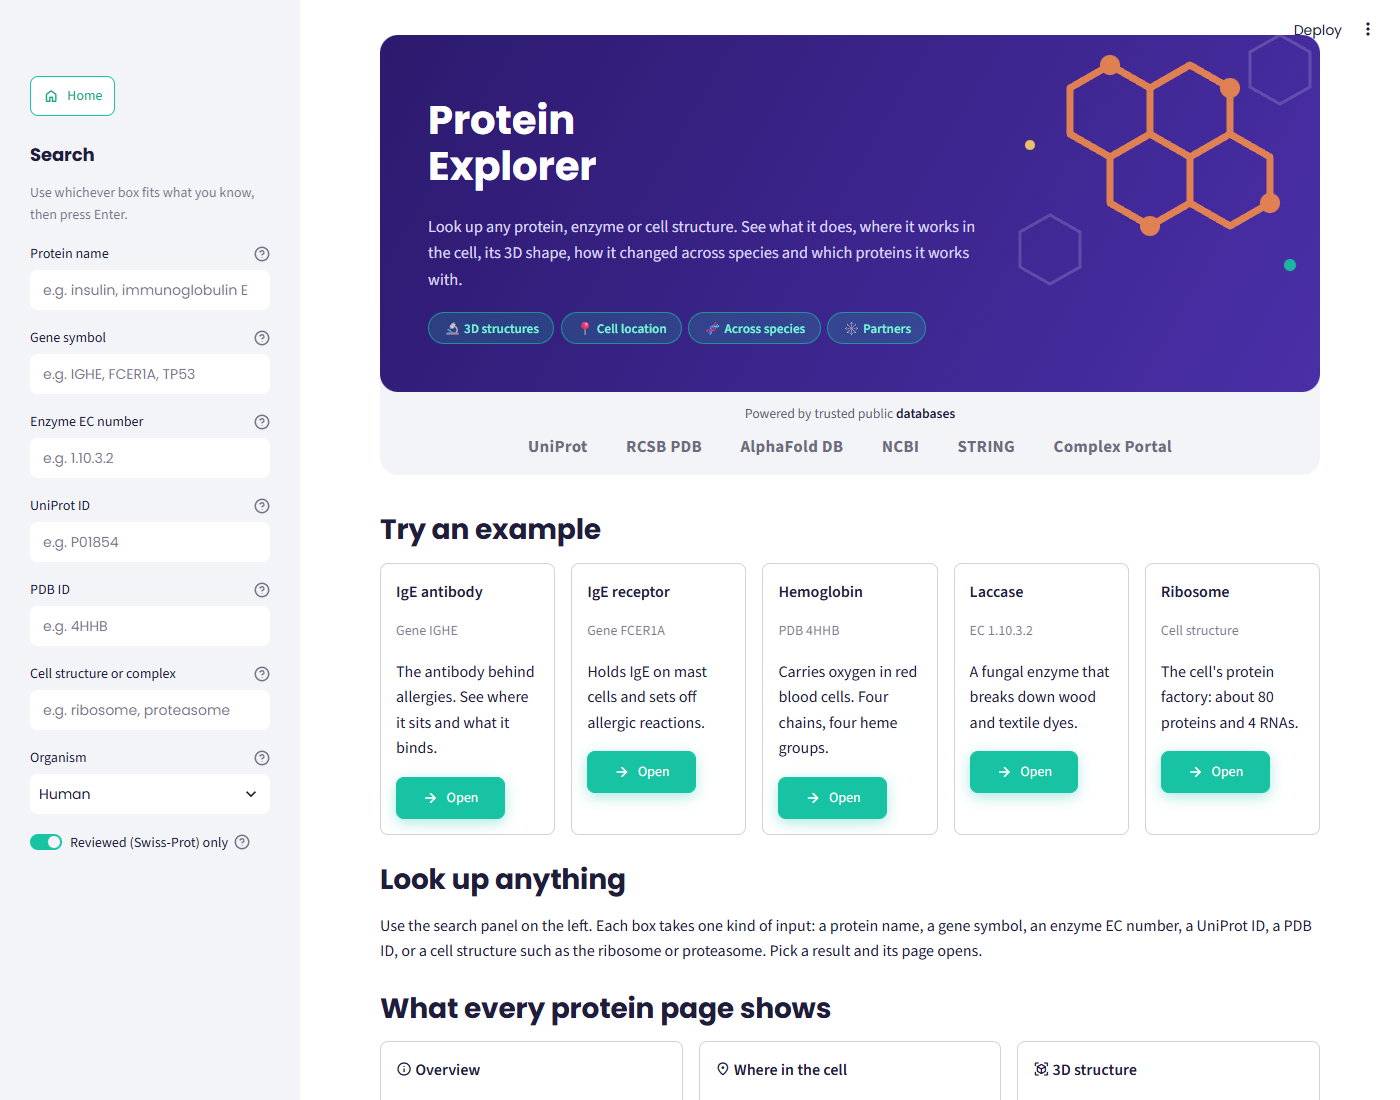
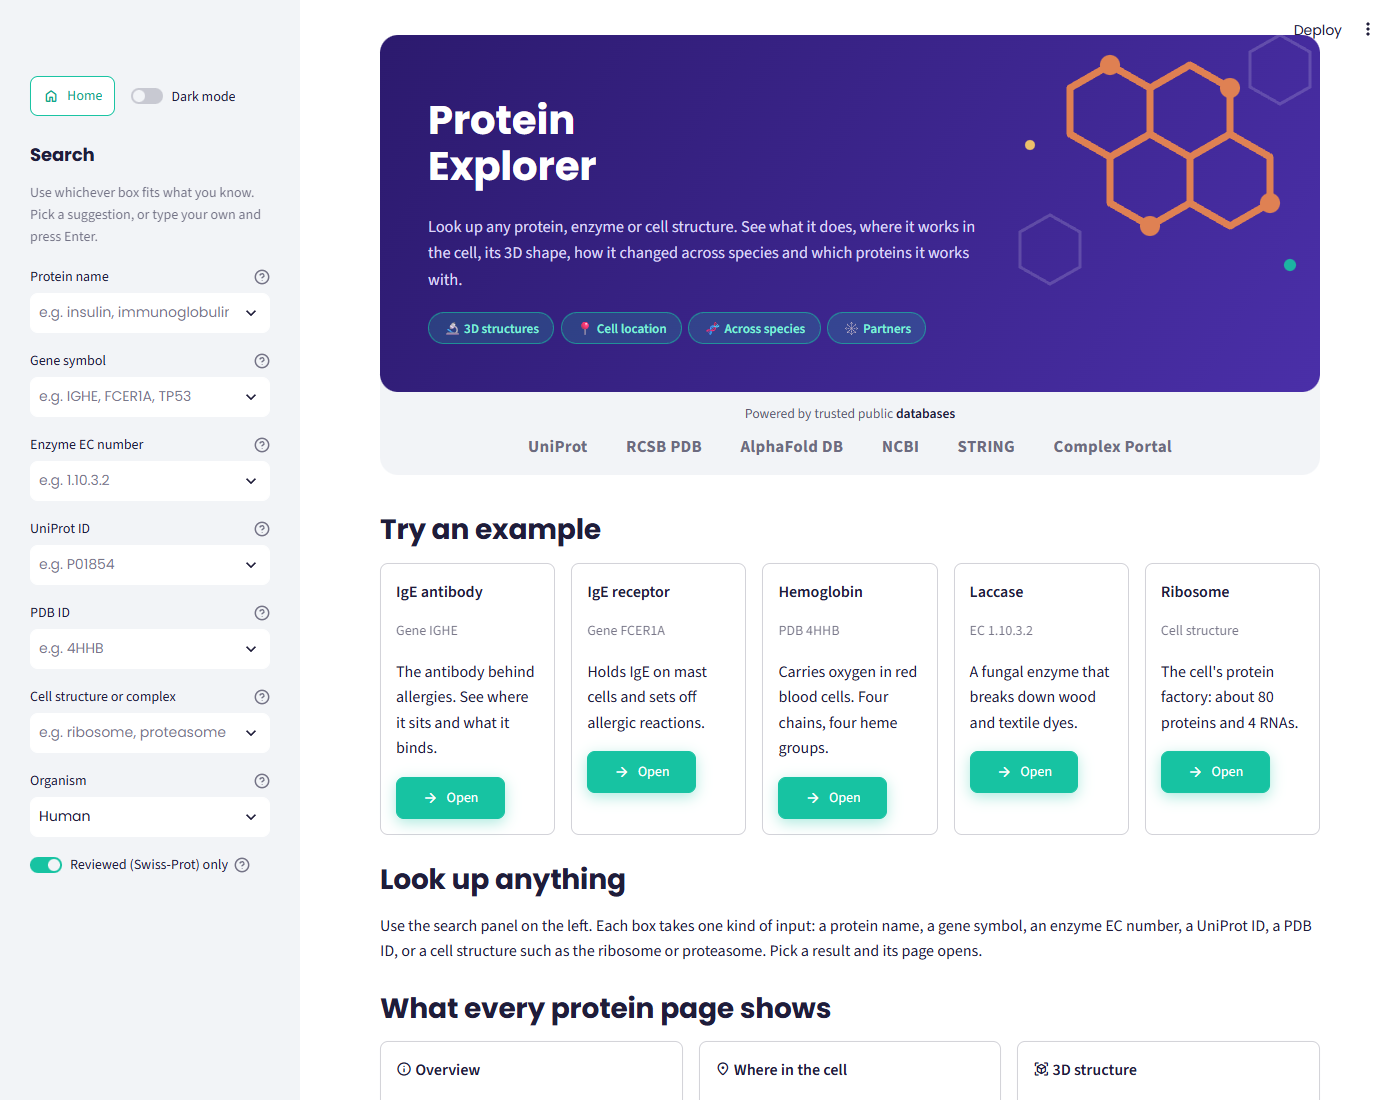
Show the search dropdowns and dark mode in the README

Changed region(s): [[0.0, 0.1855, 0.1843, 0.8036], [0.0921, 0.0618, 0.1536, 0.0927], [0.1843, 0.68, 0.215, 0.7109]]

diff --git a/README.md b/README.md
@@ -38,6 +38,10 @@ Each box is a dropdown with suggestions (about 140 common genes, everyday protei
 
 A **Dark mode** switch at the top of the sidebar repaints the whole app, including the charts and the 3D viewer.
 
+| Typing "insul" into the gene box | Dark mode |
+|---|---|
+| ![Search dropdown filtering to INS and IGF1](docs/screenshots/search-dropdown.png) | ![Hemoglobin in dark mode](docs/screenshots/dark-mode.png) |
+
 ## The protein page
 
 | Section | What you get |
